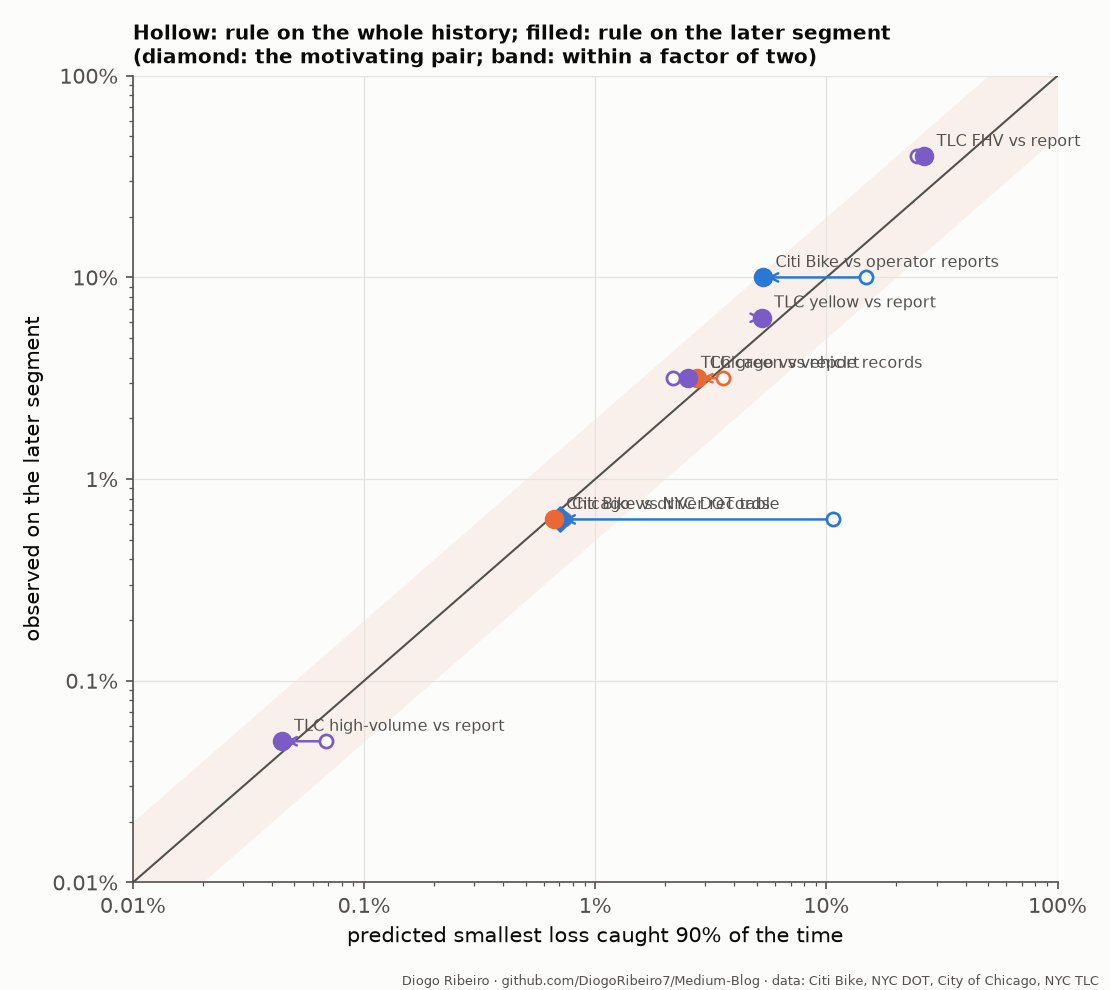
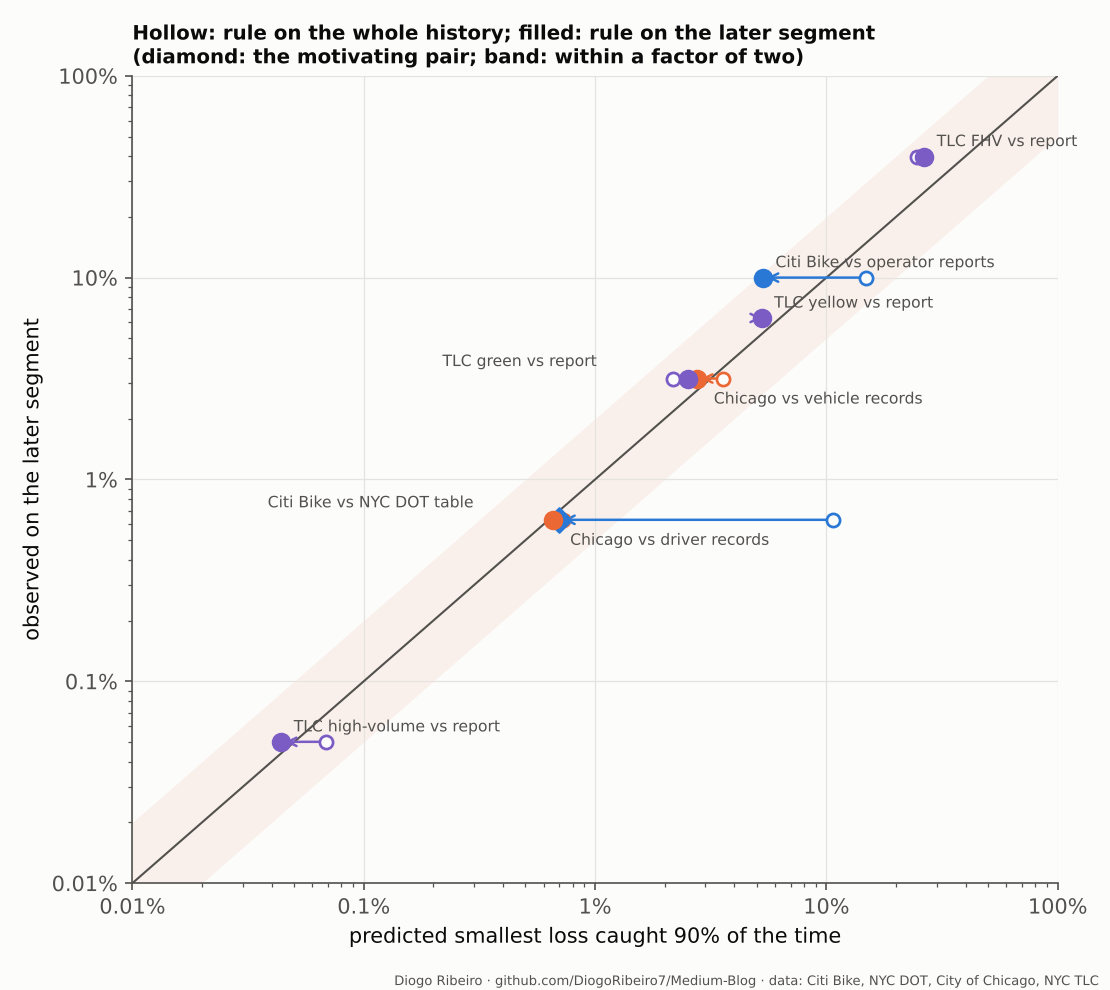
agreement-regimes: figure labels

diff --git a/agreement-regimes/figures.py b/agreement-regimes/figures.py
@@ -85,17 +85,18 @@ def fig1(ratios: pd.DataFrame, pairs: dict) -> None:
         ax.set_ylim(-1.0, 1.3)
         ax.yaxis.set_major_locator(mticker.FixedLocator([-0.5, -0.1, -0.01, 0, 0.01, 0.1, 0.5]))
         ax.yaxis.set_major_formatter(mticker.FuncFormatter(lambda v, _: f"{100 * v:+.0f}%" if v else "0"))
-        tag = "" if p["test"] else " (motivating pair)"
-        ax.set_title(f"{SHORT[name]}{tag}: split {sp['month']}, {100 * sp['reduction']:.0f}% of deviation", loc="left")
+        tag = "" if p["test"] else " (motivating)"
+        ax.set_title(f"{SHORT[name]}{tag}: split {sp['month']}, -{100 * sp['reduction']:.0f}%", loc="left")
         ax.grid(axis="y", color=GRID, lw=0.7)
     fig.suptitle(
-        "Delivered / outside count - 1, with the split at the largest level shift (dashed) and each segment's median",
+        "Delivered / outside count - 1, the split at the largest level shift (dashed), each segment's median, and the\n"
+        "share of the absolute deviation the split removes",
         x=0.01,
         ha="left",
         fontweight="bold",
     )
     fig.text(0.99, 0.004, CREDIT, ha="right", fontsize=7.5, color=INK2)
-    fig.tight_layout(rect=(0, 0.015, 1, 0.97))
+    fig.tight_layout(rect=(0, 0.015, 1, 0.955))
     fig.savefig(FIG / "fig1_splits.png", dpi=150)
     plt.close(fig)
 
@@ -113,6 +114,14 @@ def band(ax, lo=0.0001, hi=1.0) -> None:
     ax.grid(color=GRID, lw=0.6)
 
 
+OFFSET = {
+    "chicago / vehicles": (8, -12),
+    "TLC green / monthly report": (-118, 6),
+    "chicago / drivers": (8, -12),
+    "citibike / DOT table": (-140, 6),
+}
+
+
 def fig2(pairs: dict) -> None:
     fig, ax = plt.subplots(figsize=(7.4, 6.6))
     band(ax)
@@ -128,7 +137,12 @@ def fig2(pairs: dict) -> None:
         ax.scatter(p["pred_full"], obs, s=40, color=SURFACE, edgecolor=c, lw=1.3, zorder=3)
         ax.scatter(p["pred_segment"], obs, s=70, color=c, edgecolor=c, zorder=4, marker="o" if p["test"] else "D")
         ax.annotate(
-            SHORT[name], (p["pred_segment"], obs), xytext=(6, 5), textcoords="offset points", fontsize=7.5, color=INK2
+            SHORT[name],
+            (p["pred_segment"], obs),
+            xytext=OFFSET.get(name, (6, 5)),
+            textcoords="offset points",
+            fontsize=7.5,
+            color=INK2,
         )
     ax.set_xlabel("predicted smallest loss caught 90% of the time")
     ax.set_ylabel("observed on the later segment")
